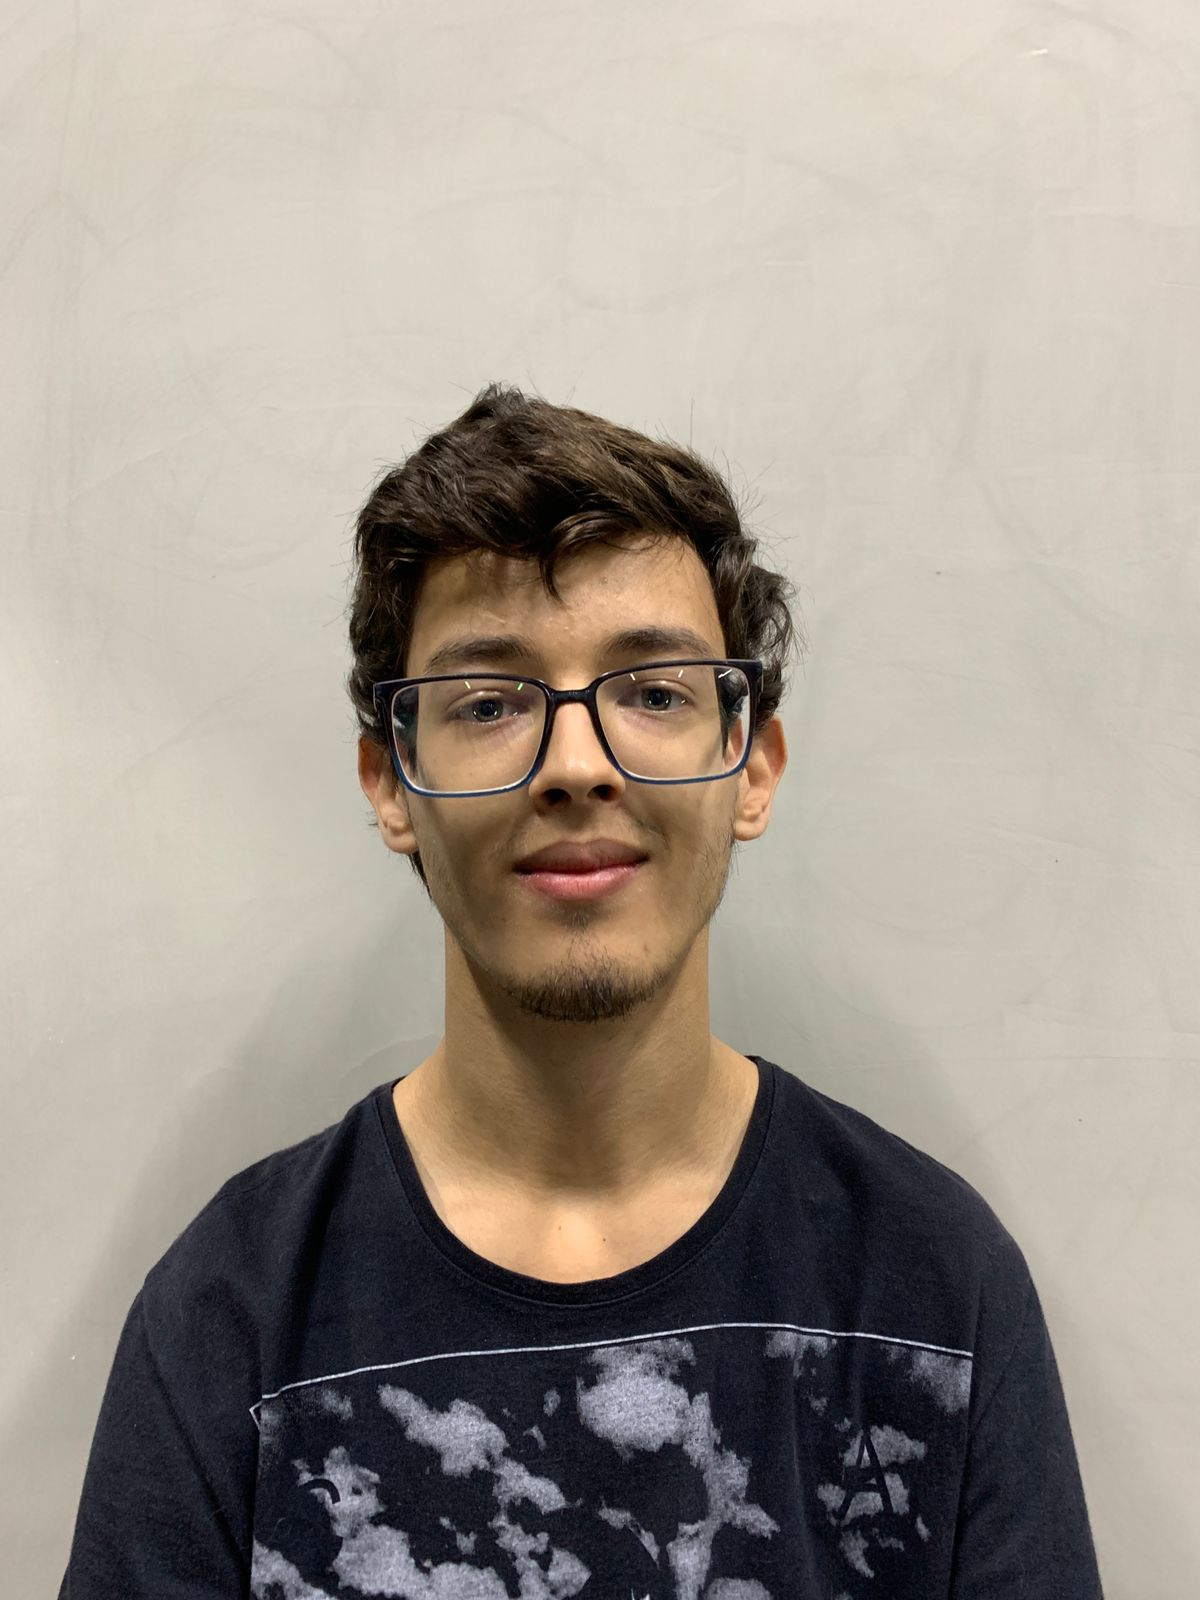
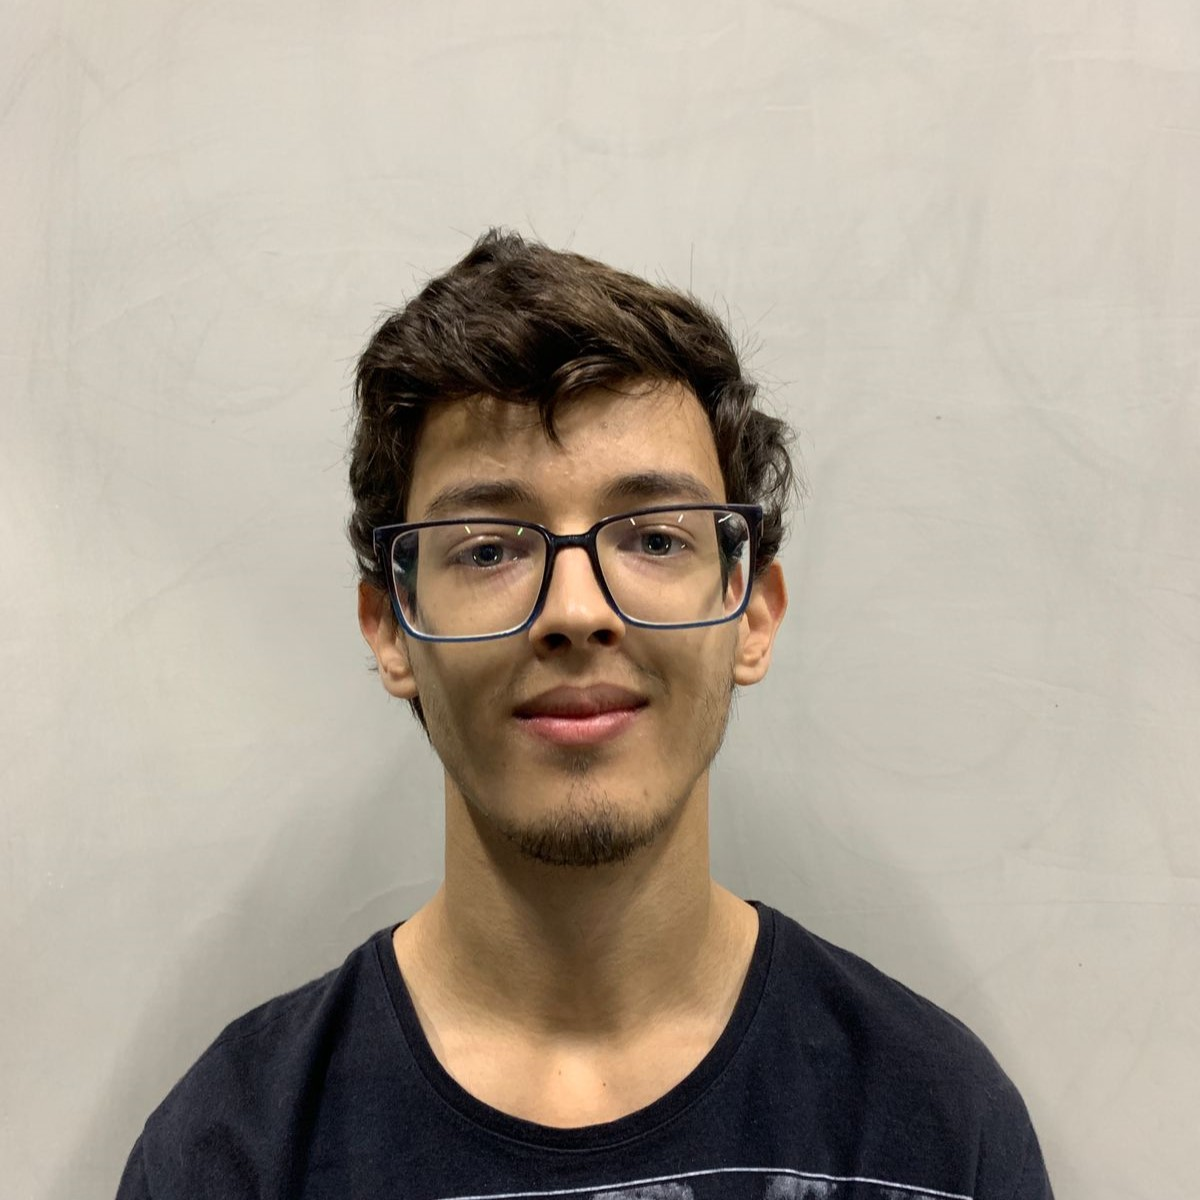
Correção nas Imagens

Changed region(s): [[0.0, 0.185, 0.9558, 1.0]]

diff --git a/siteInstitucional/css/sobreNos.css b/siteInstitucional/css/sobreNos.css
@@ -93,8 +93,7 @@
 }
 
 .card img {
-  width: 200px;
-  height: 200px;
+  width: 60%;
   border-radius: 50%;
   border: 2px solid #003050;
 }
